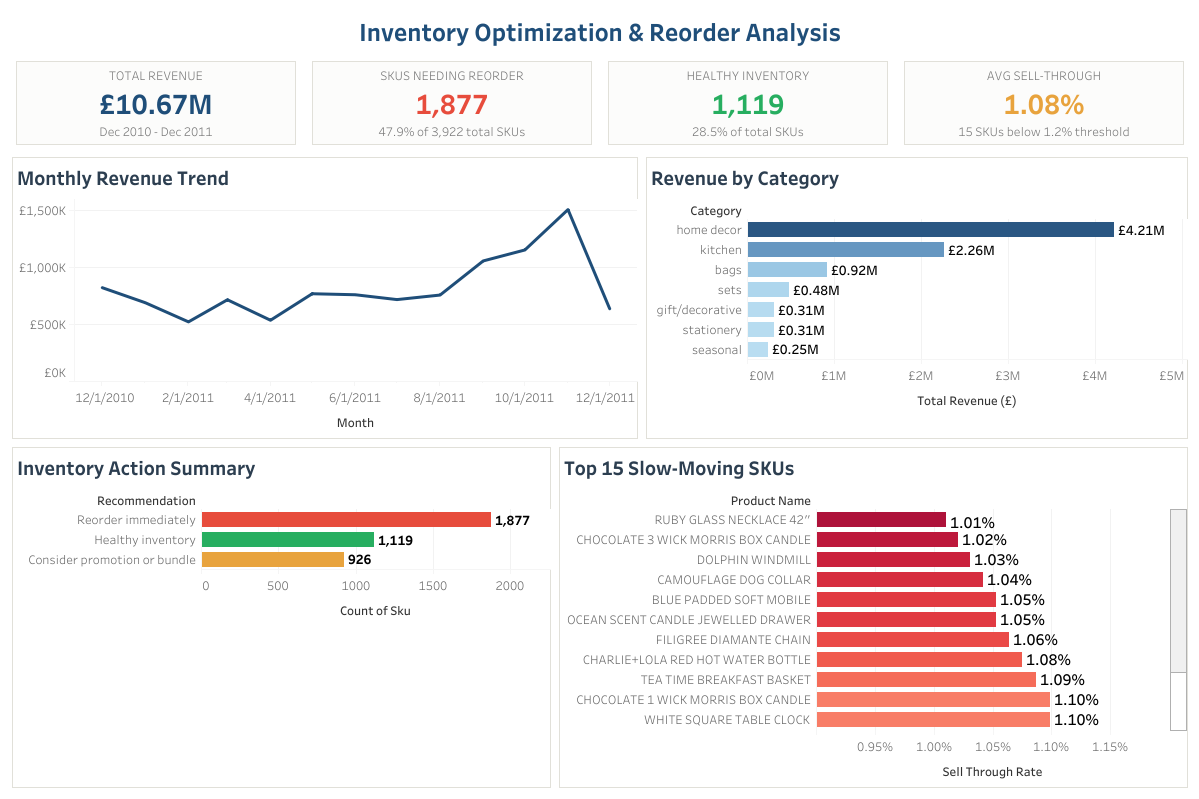
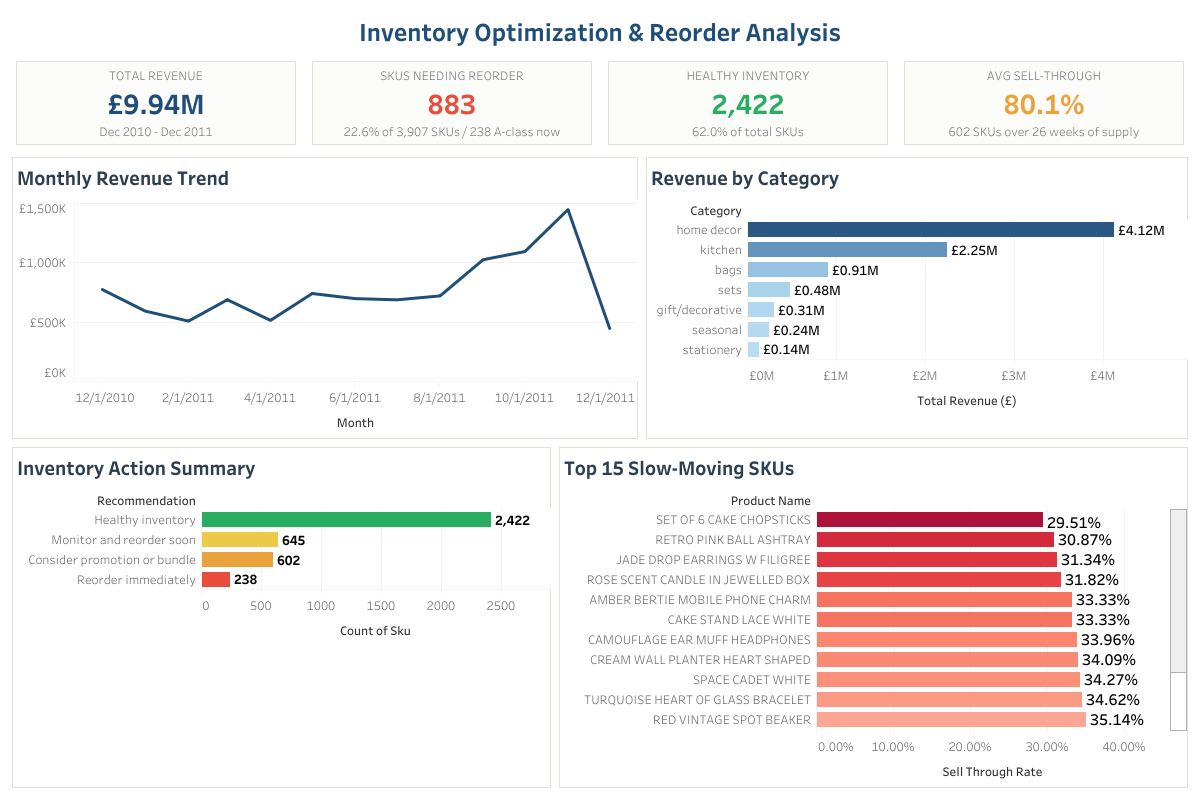
Update project 3 dashboard screenshot and fix its image link
- Replace the dashboard image with the refreshed Tableau dashboard
  (3,907 SKUs, 883 below the reorder point, 238 A-class to reorder now)
- Make the README image a clickable link to the Tableau Public dashboard

diff --git a/3-inventory-optimization-analysis/README.md b/3-inventory-optimization-analysis/README.md
@@ -28,7 +28,7 @@ This project aims to answer the following business questions:
 
 ## Dashboard Preview
 
-![Inventory Optimization Dashboard](images/Inventory_optimization_dashboard.png)(https://public.tableau.com/views/Inventory_Optimization_Dashboard_redesign/InventoryOptimizationDashboard)
+[![Inventory Optimization Dashboard](images/Inventory_optimization_dashboard.png)](https://public.tableau.com/views/Inventory_Optimization_Dashboard_redesign/InventoryOptimizationDashboard)
 
 ---
 
